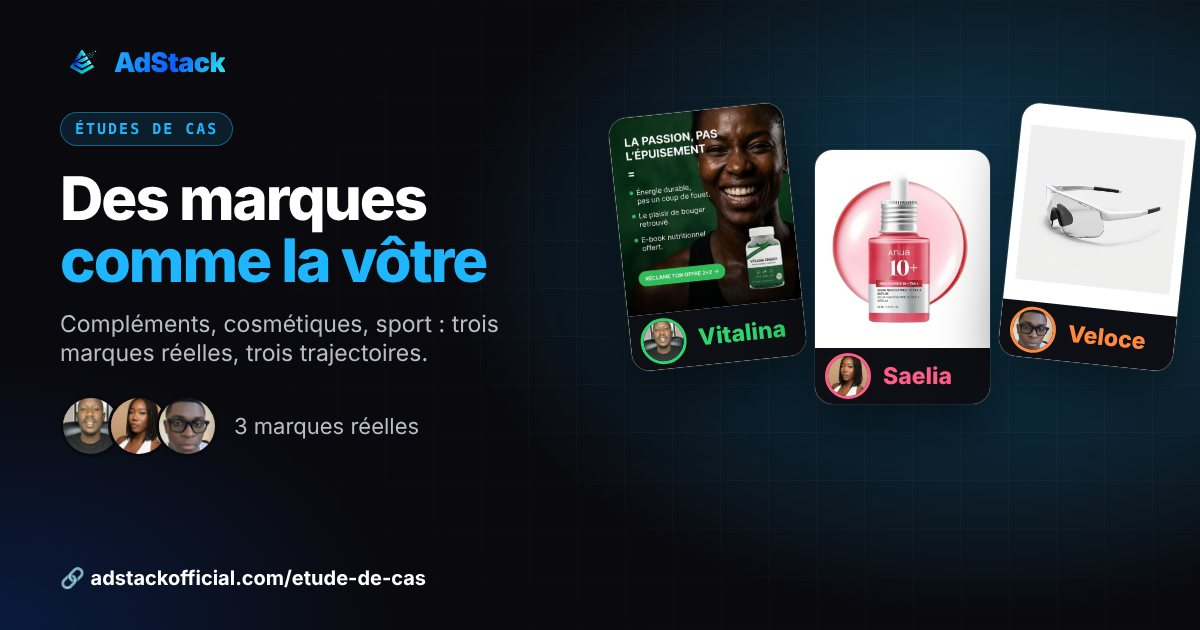
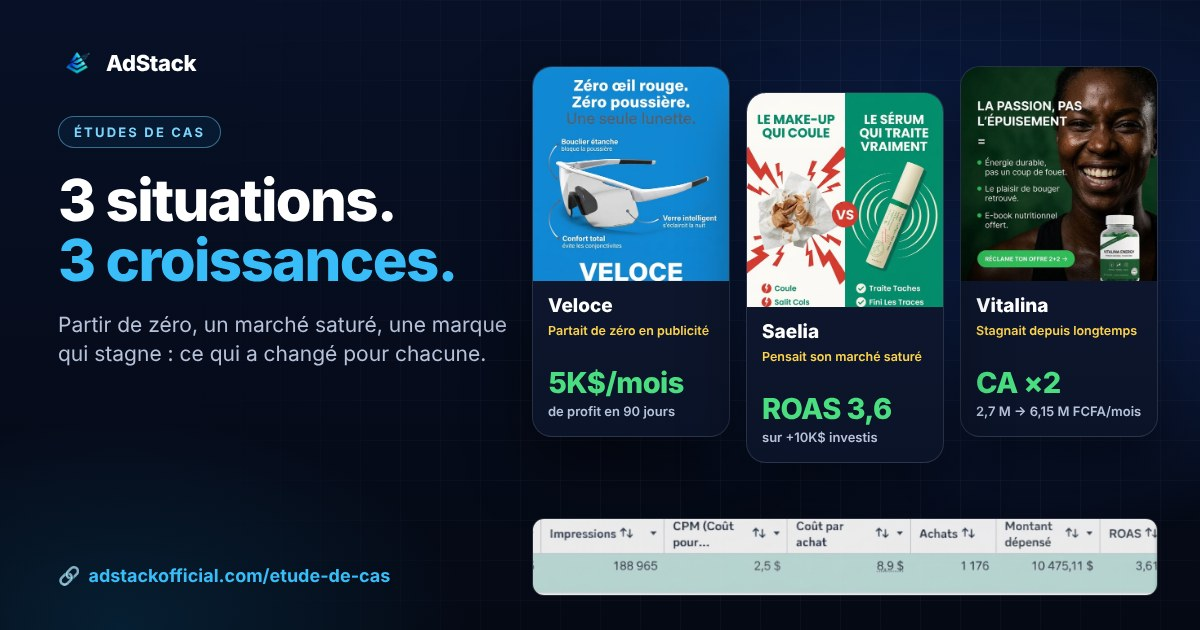
messages prospection + miniatures J+3 et J+10

diff --git a/src/crm/domain/defaults.js b/src/crm/domain/defaults.js
@@ -165,7 +165,7 @@ export const PAYS_PHRASE = {
 
 export const RELANCE_JOURS  = [3, 10, 21];
 
-export const RELANCE_LABELS = ['Constat sur ses ads (relevé du jour)', 'Preuve : étude de cas choisie d\'après le cas du J+3', 'Alerte d\'ami : nouveau Meta Andromeda (lien vers l\'article)'];
+export const RELANCE_LABELS = ['Constat sur ses ads + piège du timing (relevé du jour)', 'Preuve : les trois études de cas (Veloce, Saelia, Vitalina)', 'Dernier message : Meta Andromeda 2.0 (lien vers l\'article)'];
 
 export const DEFAULT_INTROS = ["Bonjour *[Marque]*,\nje viens de voir votre pub pour *[Produit]*\nEst-ce vous qui l'avez faite ?", "Bonjour *[Marque]*,\nvotre pub sur *[Produit]*\nJe me demandais, est-ce vous qui l'avez créée ?", "Bonjour *[Marque]*,\nje suis tombé sur votre pub *[Produit]* en scrollant\nEst-ce vous qui êtes derrière ?", "Bonjour *[Marque]*, petite question\nLa pub *[Produit]* que je viens de voir,\nest-ce vous qui l'avez faite ?", "Bonjour *[Marque]*\nJe viens de voir votre pub avec *[Produit]*\nEst-ce vous qui la gérez ?", "Bonjour *[Marque]*,\nje regardais votre pub sur *[Produit]*. J'avais une question !\nEst-ce vous qui l'avez faites ?", "Bonjour *[Marque]*,\nj'ai vu votre pub pour *[Produit]* passer aujourd'hui\nEst-ce vous qui la gérez ?", "Bonjour *[Marque]*,\nje viens de consulter votre publicité pour *[Produit]*\nEst-ce vous qui l'avez réalisée ?", "Bonjour *[Marque]*,\nje suis tombé sur vos pubs, notamment celle pour *[Produit]*\nEst-ce vous qui l'avez faite ?", "Bonjour *[Marque]*,\nje viens de tomber sur votre pub avec *[Produit]* à l'instant\nEst-ce vous qui êtes derrière ?"];
 
@@ -195,13 +195,13 @@ export const J10_ETUDES = {
 };
 
 export const DEFAULT_RELANCES = [
-  "Bonjour *[Marque]* 😊\n\nOn a regardé votre compte publicitaire : vous aviez *[ads]* ads actives, en moyenne depuis *[jours]* jours. Ça montre que vous *[bonne_nouvelle]*.\n\nÀ ce stade, *[mauvaise_nouvelle]*.\n\nC'est là qu'on intervient (adstackofficial.com) : éviter *[mauvaise_nouvelle_en_2_mots]* grâce à *[solution]*, pour aller chercher davantage de ventes.\n\nUn *Google Meet* pour regarder ça ensemble ?",
-  "Bonjour *[Marque]* 👋🏾\n\n[cas_histoire]\n\n[cas_solution]\n\n[cas_resultat]\n\nTout est ici 👉🏾 adstackofficial.com/etude-de-cas/[cas_slug]\n\nEt pour *[Marque]*, on regarde ça ensemble en *Google Meet* ?",
-  "Salut *[Marque]*, un petit message d'ami avant de vous laisser tranquille 🙂\n\nLe 28 octobre, Meta a dévoilé *Andromeda 2.0*, le système qui choisit les pubs montrées à chaque personne.\n\nUne créative qui ne dit pas clairement *à qui elle parle et pourquoi acheter* a maintenant *beaucoup moins de chances de passer*. Publier comme avant, c'est *risquer de perdre en résultats*.\n\nOn s'est déjà adaptés, tout est expliqué ici : adstackofficial.com/blog/meta-andromeda-2-0\n\nLisez-le, et si vous voulez voir ce que ça change pour *[Marque]*, je suis là.\n\nC'est mon *dernier message*, belle semaine !"
+  "Bonjour *[Marque]* 😊, j'espère ne pas vous avoir trop dérangé la fois passée.\nEn regardant vos publicités, on a vu *[ads]* ads actives, en moyenne depuis *[jours]* jours. Ça montre que vous *[bonne_nouvelle]*.\nÀ ce stade, *[mauvaise_nouvelle]*.\nC'est souvent là que la croissance ralentit sans prévenir. Notre système *(adstackofficial.com)* évite *[mauvaise_nouvelle_en_2_mots]* grâce à *[solution]*, pour que *[Marque]* continue de *croître*.\nPartant pour un *Google Meet* ? On analyse la situation de *[Marque]* et les axes à exploiter en priorité.",
+  "Bonjour *[Marque]* 👋🏾, ces derniers mois, on a accompagné des marques dans des situations très différentes :\nVeloce (sport) *partait de zéro en publicité*, Saelia (cosmétiques) *pensait son marché saturé* et Vitalina (compléments) *stagnait depuis longtemps*.\nPour chacune, on a trouvé ce qui clochait et mis en place une stratégie personnalisée, avec d'excellents résultats présentés ici 👉🏾 https://www.adstackofficial.com/etude-de-cas\nEt au cas où, je suis dispo pour un *Meet* afin qu'on voie ensemble jusqu'où on pourrait aller avec *[Marque]* ?",
+  "Salut *[Marque]*, un petit message d'ami avant de vous laisser tranquille 🙂\n\nLe 28 octobre, Meta a dévoilé *Andromeda 2.0* : c'est désormais la créative elle-même qui décide à qui votre pub est montrée.\n\nUne créative qui ne dit pas clairement *à qui elle parle et pourquoi acheter* passe beaucoup moins. Publier comme avant, c'est *payer plus cher pour vendre moins*.\n\nOn s'est déjà adaptés, tout est expliqué ici : adstackofficial.com/blog/meta-andromeda-2-0\n\nSi vous voulez voir ce que ça change pour *[Marque]*, je suis dispo pour un *Meet*.\n\nC'est mon *dernier message*, belle semaine !"
 ];
 
 
-export const DEFAULT_PITCH = "Je posais la question car notre *AGENCE*\n\naide des *Marques E-commerce* à accroître leurs *revenus* 📈 grâce à un système complet de *publicités pensées pour vendre* :\n\nNous analysons votre marché, concevons vos publicités *(vidéos et images)* et améliorons les prochaines à partir de ce qui a le mieux performé pour vous.\n\nÊtes-vous ouvert à un *Google Meet* pour identifier ensemble comment améliorer vos performances publicitaires afin de soutenir une croissance continue pour *[Marque]* ?\n\nEt si vous voulez voir nos *réalisations et offres* en premier, voici notre site web : adstackofficial.com\n\nPassez une excellente semaine !";
+export const DEFAULT_PITCH = "Je posais la question car notre *AGENCE(https://adstackofficial.com)*\naide des marques e-commerce à *croître*📈 sans avoir à courir après les créatives :\nNous étudions votre cible en profondeur, concevons des *publicités* qui lui parlent et apprenons de ce qui a marché pour rendre les suivantes encore plus *rentables*.\nSeriez-vous partant pour un *Google Meet* : on analyse la situation de *[Marque]*, puis on voit ensemble les axes d'amélioration à exploiter ?";
 
 // Parcours acheteur : messages de départ (modifiables dans Templates › Acheteurs), un par étape de PARCOURS (domain/acheteurs.js).
 export const DEFAULT_ACHETEUR = [

diff --git a/src/crm/domain/messages.js b/src/crm/domain/messages.js
@@ -7,6 +7,7 @@ import * as PV from './defaults_prev'
 import { PREV2_DEFAULT_ECRIT } from './defaults_prev2'
 import { PREV3_DEFAULT_ECRIT, PREV3_J3_REPLI } from './defaults_prev3'
 import { PREV4_RELANCES, PREV4_J3_CAS0, PREV4_CLOSING0 } from './defaults_prev4'
+import { PREV5_PITCH, PREV5_RELANCES } from './defaults_prev5'
 // compare deux textes sans tenir compte des apostrophes typographiques, espaces et astérisques
 const norm = (s) => String(s || '').replace(/[’‘]/g, "'").replace(/\*/g, '').replace(/\s+/g, ' ').trim()
 const estAncien = (x, ...prevs) => prevs.some((prev) => !!prev && norm(x) === norm(prev))
@@ -133,7 +134,7 @@ export function ecritMessage(p, etape, cfg, lienPerso) {
 }
 
 // ── Relances Leads J+3 (pitch avec les ads, variables) / J+10 (preuve) / J+21 (alerte)
-export function relanceTemplates(cfg) { const t = cfg && cfg.tpl_relances; return Array.isArray(t) && t.length ? t.map((x, i) => ((i <= 1 && estAncien(x, PREV4_RELANCES[i])) || (i > 0 && (estAncien(x, PV.PREV_DEFAULT_RELANCES[i]) || (i === 2 && /trou sur la route/i.test(x))))) ? D.DEFAULT_RELANCES[i] : x) : D.DEFAULT_RELANCES }
+export function relanceTemplates(cfg) { const t = cfg && cfg.tpl_relances; return Array.isArray(t) && t.length ? t.map((x, i) => (estAncien(x, PREV5_RELANCES[i]) || (i <= 1 && estAncien(x, PREV4_RELANCES[i])) || (i > 0 && (estAncien(x, PV.PREV_DEFAULT_RELANCES[i]) || (i === 2 && /trou sur la route/i.test(x))))) ? D.DEFAULT_RELANCES[i] : x) : D.DEFAULT_RELANCES }
 export function relanceMessage(p, idx, cfg) {
   let tpl = relanceTemplates(cfg)[idx] || ''
   if (idx !== 0 && D.J3_VARS.test(tpl)) tpl = D.DEFAULT_RELANCES[idx] || ''
@@ -163,7 +164,9 @@ export function relanceMessage(p, idx, cfg) {
     const { phrase } = resoudrePays(p.pays)
     msg = msg.replace(/\b(en|au|à)\s+\*\[pays\]\*/gi, '*' + phrase + '*').replace(/\*\[pays\]\*/gi, '*' + phrase + '*').replace(/\b(en|au|à)\s+\[Pays\]/gi, phrase).replace(/\[Pays\]/gi, phrase).replace(/\b(en|au|à)\s+\*?\s*(en|au|à)\b/gi, '$2')
   }
-  return { msg, v, bloque, trace, chemin: ((msg.match(/adstackofficial\.com(\/[\w\-\/]*)?/i) || [])[1] || '') }
+  let chemin = ((msg.match(/adstackofficial\.com(\/[\w\-\/]*)?/i) || [])[1] || '')
+  if (idx === 0 && (!chemin || chemin === '/')) chemin = '/analyse'   // 20 nov. 2026 : le J+3 a sa propre miniature (page /analyse, qui renvoie sur la page de vente)
+  return { msg, v, bloque, trace, chemin }
 }
 export const lienRelance = (idx, id, chemin) => {
   const campagne = ['j3', 'j10', 'j21'][idx] || 'relance'
@@ -203,7 +206,7 @@ export const lienOffreSuivi = (offreKey, campagne, medium, id) => {
 // ── Pitch (envoyé quand le prospect a répondu) : lien suivi, campagne « pitch »
 export const lienPitch = (id) => `https://www.adstackofficial.com/?utm_source=crm&utm_medium=pitch&utm_campaign=pitch&utm_content=${id}`
 export function pitchMessage(p, cfg, lien) {
-  const tpl = (cfg && cfg.tpl_pitch) || D.DEFAULT_PITCH
+  const tpl = (cfg && cfg.tpl_pitch && !estAncien(cfg.tpl_pitch, PREV5_PITCH)) ? cfg.tpl_pitch : D.DEFAULT_PITCH   // 20 nov. 2026 : l'ancien pitch enregistré passe au nouveau
   let msg = tpl.replace(/\[Produit\]/gi, (p.produit || '').trim() || 'votre produit').replace(/\[Marque\]/gi, p.nom_marque || '')
   const avait = /adstackofficial\.com/i.test(msg) || /\[lien\]/i.test(msg)
   msg = unifierLiens(msg, lien)

diff --git a/src/crm/domain/defaults_prev5.js b/src/crm/domain/defaults_prev5.js
@@ -1,0 +1,7 @@
+// Textes par défaut remplacés le 20 nov. 2026 (refonte des 4 messages de prospection) : un texte enregistré identique à l'un d'eux est mis à jour automatiquement.
+export const PREV5_PITCH = "Je posais la question car notre *AGENCE*\n\naide des *Marques E-commerce* à accroître leurs *revenus* 📈 grâce à un système complet de *publicités pensées pour vendre* :\n\nNous analysons votre marché, concevons vos publicités *(vidéos et images)* et améliorons les prochaines à partir de ce qui a le mieux performé pour vous.\n\nÊtes-vous ouvert à un *Google Meet* pour identifier ensemble comment améliorer vos performances publicitaires afin de soutenir une croissance continue pour *[Marque]* ?\n\nEt si vous voulez voir nos *réalisations et offres* en premier, voici notre site web : adstackofficial.com\n\nPassez une excellente semaine !";
+export const PREV5_RELANCES = [
+  "Bonjour *[Marque]* 😊\n\nOn a regardé votre compte publicitaire : vous aviez *[ads]* ads actives, en moyenne depuis *[jours]* jours. Ça montre que vous *[bonne_nouvelle]*.\n\nÀ ce stade, *[mauvaise_nouvelle]*.\n\nC'est là qu'on intervient (adstackofficial.com) : éviter *[mauvaise_nouvelle_en_2_mots]* grâce à *[solution]*, pour aller chercher davantage de ventes.\n\nUn *Google Meet* pour regarder ça ensemble ?",
+  "Bonjour *[Marque]* 👋🏾\n\n[cas_histoire]\n\n[cas_solution]\n\n[cas_resultat]\n\nTout est ici 👉🏾 adstackofficial.com/etude-de-cas/[cas_slug]\n\nEt pour *[Marque]*, on regarde ça ensemble en *Google Meet* ?",
+  "Salut *[Marque]*, un petit message d'ami avant de vous laisser tranquille 🙂\n\nLe 28 octobre, Meta a dévoilé *Andromeda 2.0*, le système qui choisit les pubs montrées à chaque personne.\n\nUne créative qui ne dit pas clairement *à qui elle parle et pourquoi acheter* a maintenant *beaucoup moins de chances de passer*. Publier comme avant, c'est *risquer de perdre en résultats*.\n\nOn s'est déjà adaptés, tout est expliqué ici : adstackofficial.com/blog/meta-andromeda-2-0\n\nLisez-le, et si vous voulez voir ce que ça change pour *[Marque]*, je suis là.\n\nC'est mon *dernier message*, belle semaine !"
+];

diff --git a/public/analyse.html b/public/analyse.html
@@ -1,0 +1,23 @@
+<!doctype html>
+<html lang="fr">
+<head>
+<meta charset="UTF-8">
+<meta name="viewport" content="width=device-width,initial-scale=1">
+<title>AdStack — Analyse de vos publicités</title>
+<!-- Lien de la relance J+3 : sa propre miniature WhatsApp, puis le visiteur arrive sur la page de vente (UTM conservés). -->
+<meta property="og:type" content="website">
+<meta property="og:site_name" content="AdStack">
+<meta property="og:title" content="Ce que vos pubs disent de votre croissance">
+<meta property="og:description" content="Nombre d'ads, durée, renouvellement : où la croissance peut ralentir sans prévenir.">
+<meta property="og:url" content="https://www.adstackofficial.com/analyse">
+<meta property="og:image" content="https://www.adstackofficial.com/assets/miniatures/relance-j3-analyse.jpg?v=1">
+<meta property="og:image:width" content="1200">
+<meta property="og:image:height" content="630">
+<meta name="twitter:card" content="summary_large_image">
+<meta name="twitter:image" content="https://www.adstackofficial.com/assets/miniatures/relance-j3-analyse.jpg?v=1">
+<link rel="icon" href="/favicon.ico">
+<script>location.replace('/' + location.search + location.hash);</script>
+<style>body{margin:0;background:#060b1a;color:#e2e8f0;font-family:Inter,system-ui,sans-serif;display:flex;align-items:center;justify-content:center;height:100vh}a{color:#38bdf8}</style>
+</head>
+<body><noscript><a href="/">Continuer vers AdStack</a></noscript></body>
+</html>

diff --git a/public/etude-de-cas.html b/public/etude-de-cas.html
@@ -7,13 +7,13 @@
 <meta property="og:type" content="website">
 <meta property="og:site_name" content="AdStack">
 <meta property="og:title" content="Études de cas AdStack : des marques comme la vôtre">
-<meta property="og:description" content="Trois marques e-commerce réelles, trois trajectoires. Découvrez leurs résultats.">
+<meta property="og:description" content="Partir de zéro, un marché saturé, une marque qui stagne : trois situations, trois croissances.">
 <meta property="og:url" content="https://www.adstackofficial.com/etude-de-cas">
-<meta property="og:image" content="https://www.adstackofficial.com/assets/miniatures/etude-de-cas-toutes.jpg">
+<meta property="og:image" content="https://www.adstackofficial.com/assets/miniatures/etude-de-cas-toutes.jpg?v=2">
 <meta property="og:image:width" content="1200">
 <meta property="og:image:height" content="630">
 <meta name="twitter:card" content="summary_large_image">
-<meta name="twitter:image" content="https://www.adstackofficial.com/assets/miniatures/etude-de-cas-toutes.jpg">
+<meta name="twitter:image" content="https://www.adstackofficial.com/assets/miniatures/etude-de-cas-toutes.jpg?v=2">
 
 <meta name="description" content="Comment une marque e-commerce a trouvé ses créatives gagnantes avec AdStack.">
 <link rel="icon" href="/favicon.ico">
